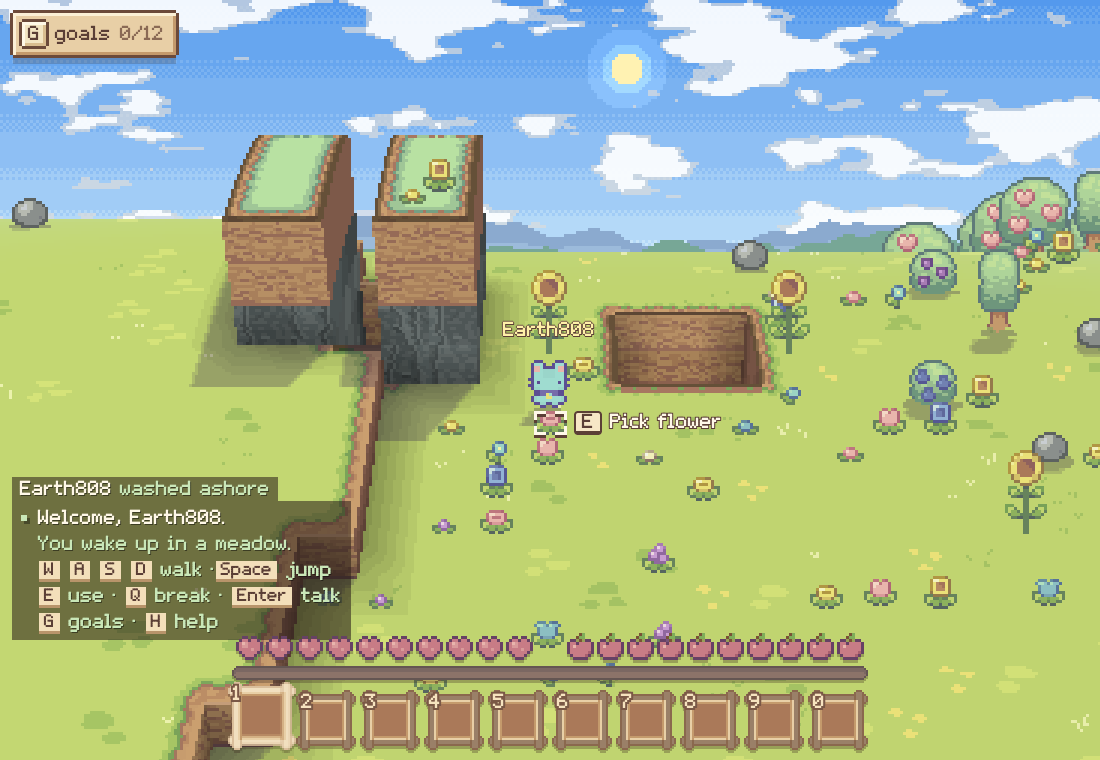
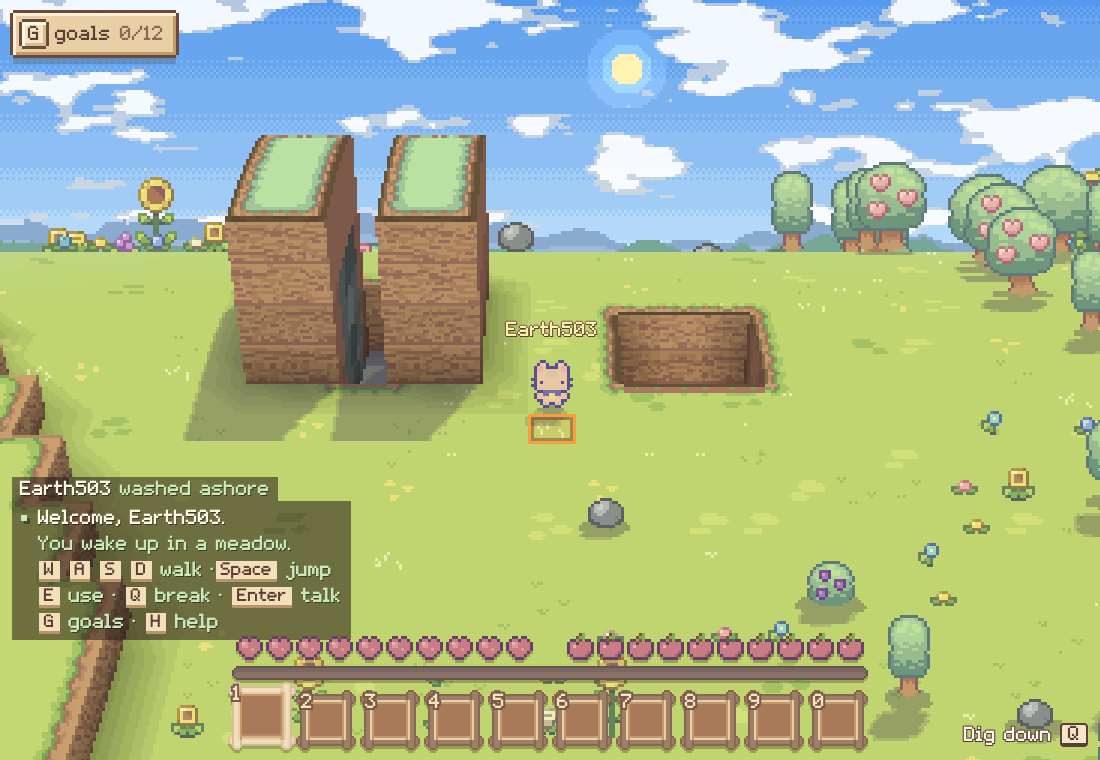
docs(mockups): earth and stone by the generator; under the land, the real blocks round you
Claude-Session: https://claude.ai/code/session_011zaXs3U6jVbMzL2p4BLhLN

diff --git a/index.html b/index.html
@@ -29,15 +29,21 @@ figure { min-width:0; } img { max-width:100%; } .grid { grid-template-columns:re
 @media (max-width:700px) { #sky .ph { grid-template-columns:repeat(5, minmax(0, 1fr)); } }
 </style>
 <div class="pair" id="paw">
-<h1>Two looks to check</h1>
+<h1>Three looks to check</h1>
 <h2>A tool held in the paw: one grip</h2>
 <p>Walking, the hand was where the tool's swing starts on the sheet: at arm's length, a ring floating beside the cat. Here it is one paw point on the body for each facing; only the tool's angle changes. Rows: axe, pickaxe, hoe, torch, watering can. Columns: facing down, up, right, left. <b>Standing is the same in both</b> (the aim pose already holds it on the body). The watering can is the pack's own frame and still hangs out; a swing now starts 2-3 px from the hand.</p>
 <div class="ba"><figure><span class="tag b">Before</span><img src="grip/grip_before.webp" alt="Tools while walking, today"></figure><figure><span class="tag a">After</span><img src="grip/grip_after.webp" alt="Tools while walking, one grip"></figure></div>
 </div>
 <div class="pair" id="earth">
-<h2>Earth on top, stone underneath</h2>
-<p>One rule for what a dig gives and how a wall is painted: land laid out low is two cells of earth, then stone (a high hill is stone all through, as now). The same staged hill four high, a cut through it, and a pit in the meadow. <b>Every natural hill 3 or 4 high now shows grey stone at the foot of its walls.</b> The pit's stone is below what the eye sees of it.</p>
-<div class="ba"><figure><span class="tag b">Before</span><img src="grip/earth_before.webp" alt="Hill and pit, today"></figure><figure><span class="tag a">After</span><img src="grip/earth_after.webp" alt="Hill and pit, earth over stone"></figure></div>
+<h2>Earth on top, stone underneath: the world generator's</h2>
+<p>The owner: "should only be a matter of world generation. Grass shouldn't turn into stone". Each tile's stone is laid when its land is made: the mountains (5 high and up) stone all through, as now; any other land earth and grass to its foot, stone starting two cells under the lowest ground round it. <b>Nothing on the surface changes.</b> Digging gives what is there: earth on top, then stone. Below: the same staged hill four high, a cut through it (its core shows stone), and a pit.</p>
+<div class="ba"><figure><span class="tag b">Before</span><img src="grip/earth_before.webp" alt="Hill and pit, today"></figure><figure><span class="tag a">After</span><img src="grip/earth_after.webp" alt="Hill and pit, the generator's stone"></figure></div>
+</div>
+<div class="pair" id="under">
+<h2>Under the land: the real blocks round you</h2>
+<p>The owner: "underground view should show the real blocks around the player". Today, in a tunnel the land over you is a dark window cut in one flat paint. Here, covered by the land, the cells over your head are not drawn 5 tiles round you and 11 south of you (the eye looks from the south): the walls of your way are the land's own blocks, earth or stone, each drawn as any block is; what grew on top of the cut land is not drawn. Only the picture is cut: the light, the sun, the eye are as before. A tunnel through a mountain (stone), then through a hill four high (earth over a stone core). <b>Known: the edge of the cut through an earth hill still shows a strip of grass; it will be bare earth.</b></p>
+<div class="ba"><figure><span class="tag b">Before</span><img src="grip/under_stone_before.webp" alt="Tunnel in a mountain, today"></figure><figure><span class="tag a">After</span><img src="grip/under_stone_after.webp" alt="Tunnel in a mountain, the real blocks"></figure></div>
+<div class="ba" style="margin-top:12px"><figure><span class="tag b">Before</span><img src="grip/under_earth_before.webp" alt="Tunnel in a hill, today"></figure><figure><span class="tag a">After</span><img src="grip/under_earth_after.webp" alt="Tunnel in a hill, the real blocks"></figure></div>
 </div>
 <div id="sky">
 <h1>The sky: which one? (picked: 3, built)</h1>
